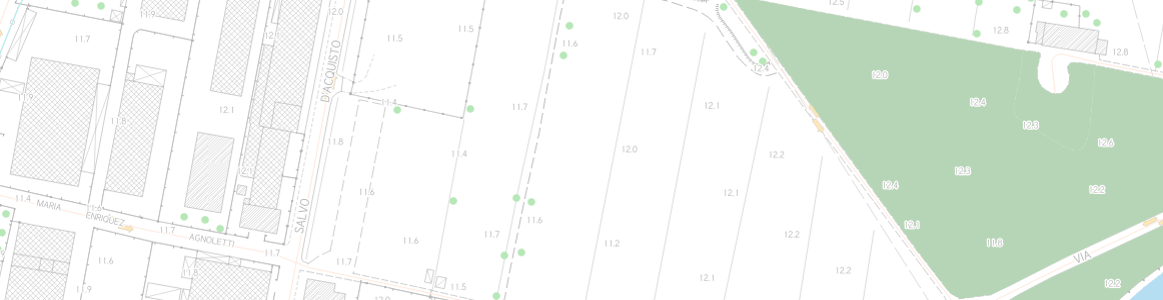
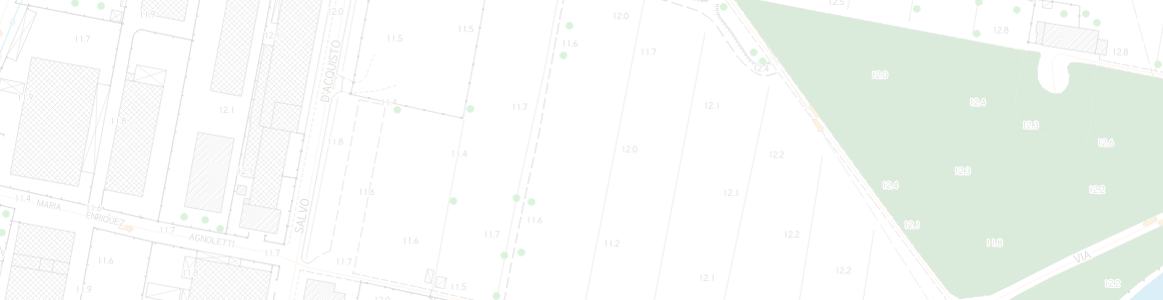
fix css and background image

diff --git a/_static/faunalia.css b/_static/faunalia.css
@@ -81,6 +81,9 @@ background-color:transparent !important;
 .bottomcont{
 width:100%;
 background: url('../_images/pontedera_qgis.png');
+-moz-background-size:100% 100%;
+-webkit-background-size:100% 100%;
+background-size:100% 100%;
 border:1px solid #E9E9E9;
 margin:20px 0 0 0;
 }
